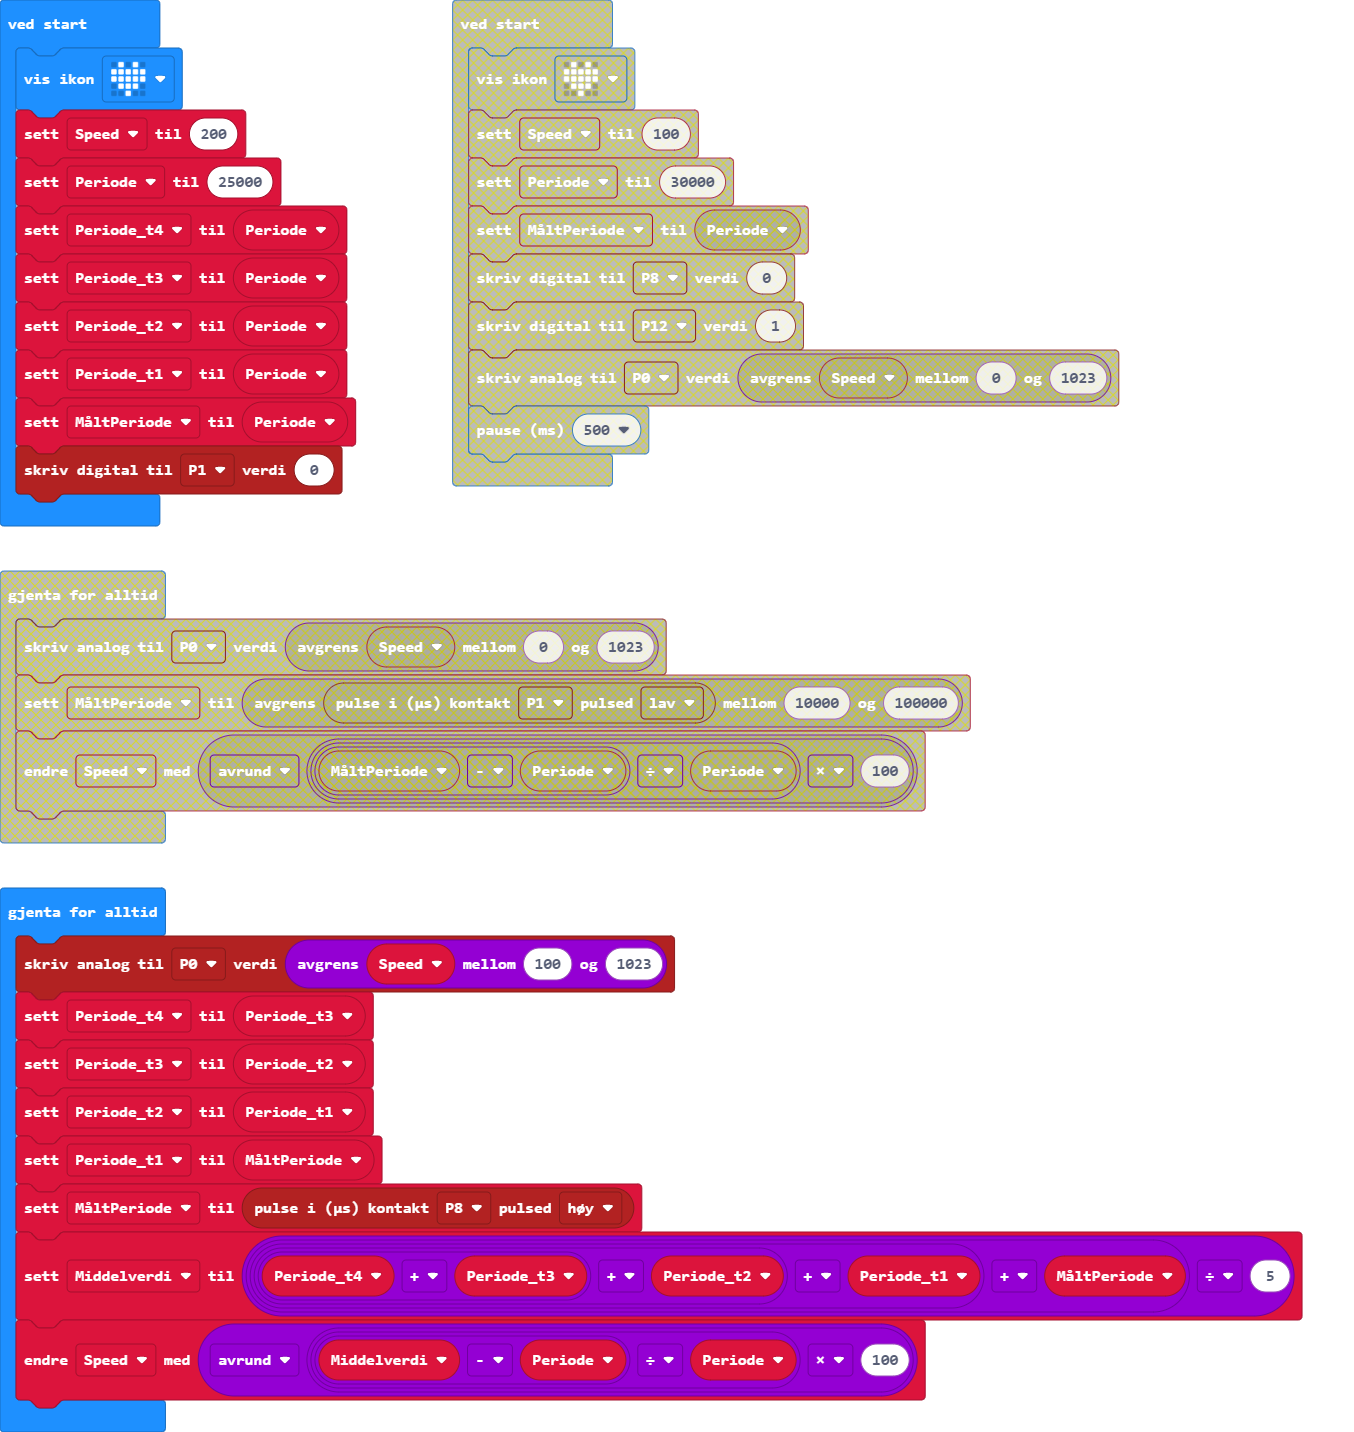
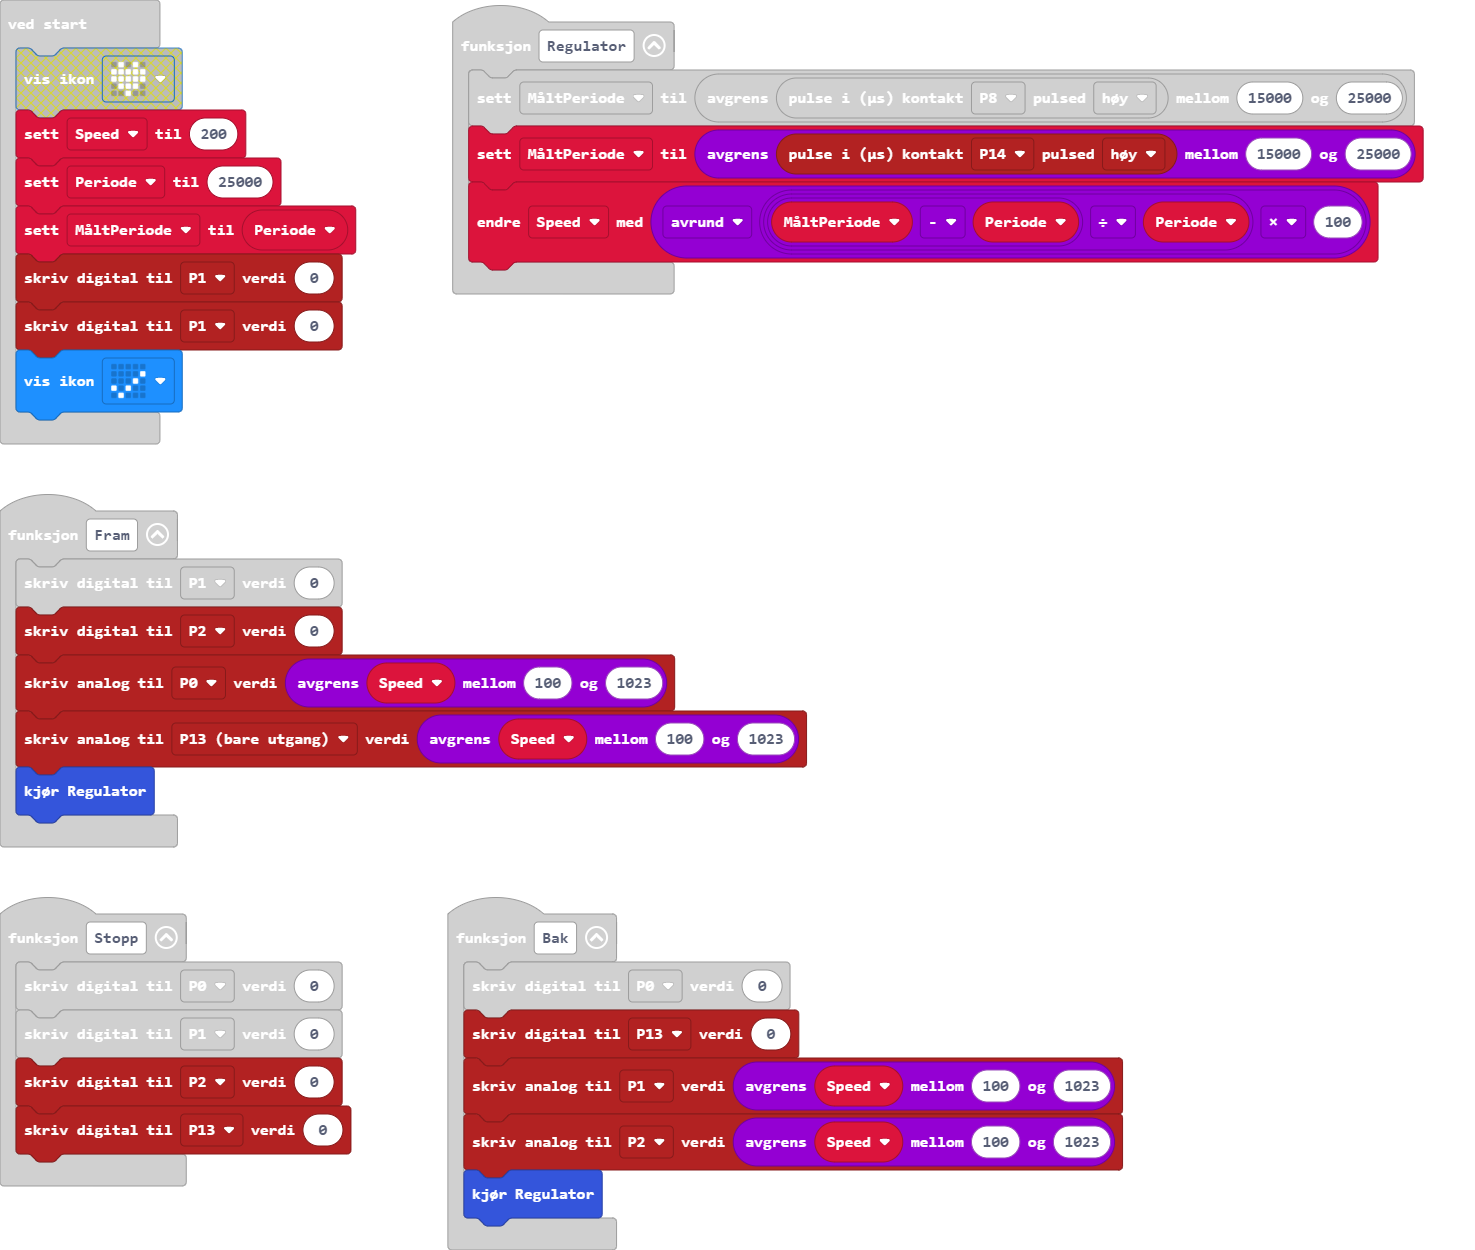
Oppdater main.blocks, main.ts

diff --git a/main.ts b/main.ts
@@ -4,15 +4,21 @@ input.onButtonPressed(Button.A, function () {
 function Stopp () {
     pins.digitalWritePin(DigitalPin.P0, 0)
     pins.digitalWritePin(DigitalPin.P1, 0)
+    pins.digitalWritePin(DigitalPin.P2, 0)
+    pins.digitalWritePin(DigitalPin.P13, 0)
 }
 function Bak () {
     pins.digitalWritePin(DigitalPin.P0, 0)
+    pins.digitalWritePin(DigitalPin.P13, 0)
     pins.analogWritePin(AnalogPin.P1, Math.constrain(Speed, 100, 1023))
+    pins.analogWritePin(AnalogPin.P2, Math.constrain(Speed, 100, 1023))
     Regulator()
 }
 function Fram () {
     pins.digitalWritePin(DigitalPin.P1, 0)
+    pins.digitalWritePin(DigitalPin.P2, 0)
     pins.analogWritePin(AnalogPin.P0, Math.constrain(Speed, 100, 1023))
+    pins.analogWritePin(AnalogPin.P13, Math.constrain(Speed, 100, 1023))
     Regulator()
 }
 input.onButtonPressed(Button.B, function () {
@@ -20,15 +26,17 @@ input.onButtonPressed(Button.B, function () {
 })
 function Regulator () {
     MåltPeriode = Math.constrain(pins.pulseIn(DigitalPin.P8, PulseValue.High), 15000, 25000)
+    MåltPeriode = Math.constrain(pins.pulseIn(DigitalPin.P14, PulseValue.High), 15000, 25000)
     Speed += Math.round((MåltPeriode - Periode) / Periode * 100)
 }
 let MåltPeriode = 0
 let Periode = 0
 let Speed = 0
-basic.showIcon(IconNames.Heart)
+basic.showIcon(IconNames.Yes)
 Speed = 200
 Periode = 25000
 MåltPeriode = Periode
+pins.digitalWritePin(DigitalPin.P1, 0)
 pins.digitalWritePin(DigitalPin.P1, 0)
 basic.forever(function () {
     if (pins.digitalReadPin(DigitalPin.P16) == 0) {
